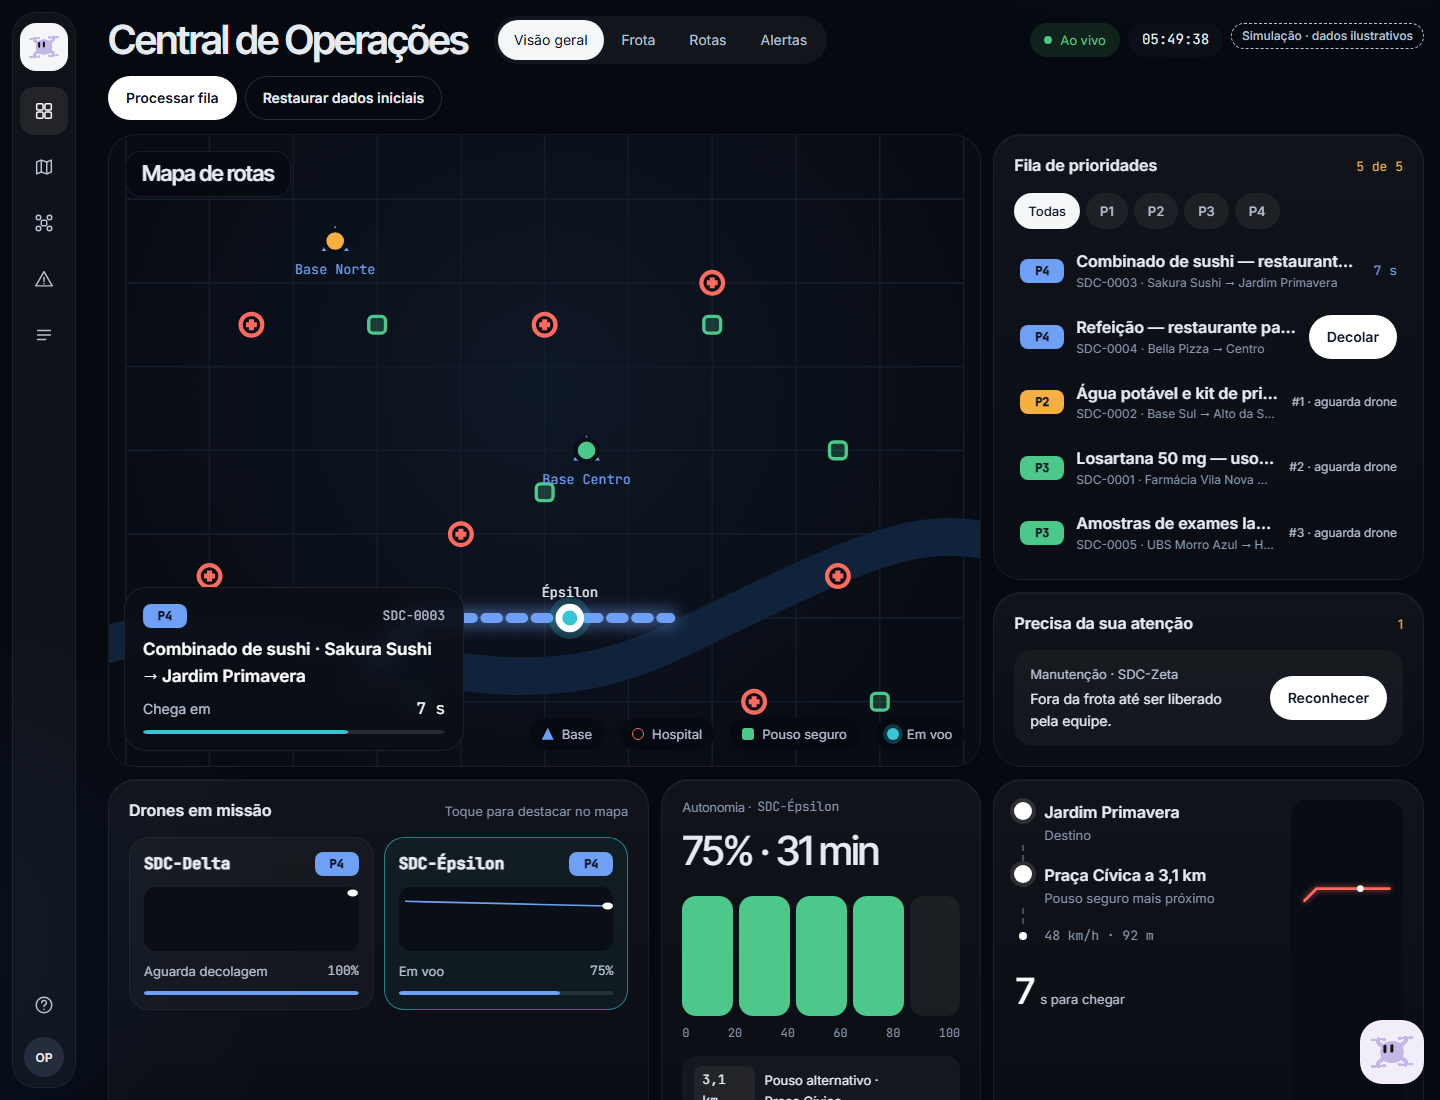
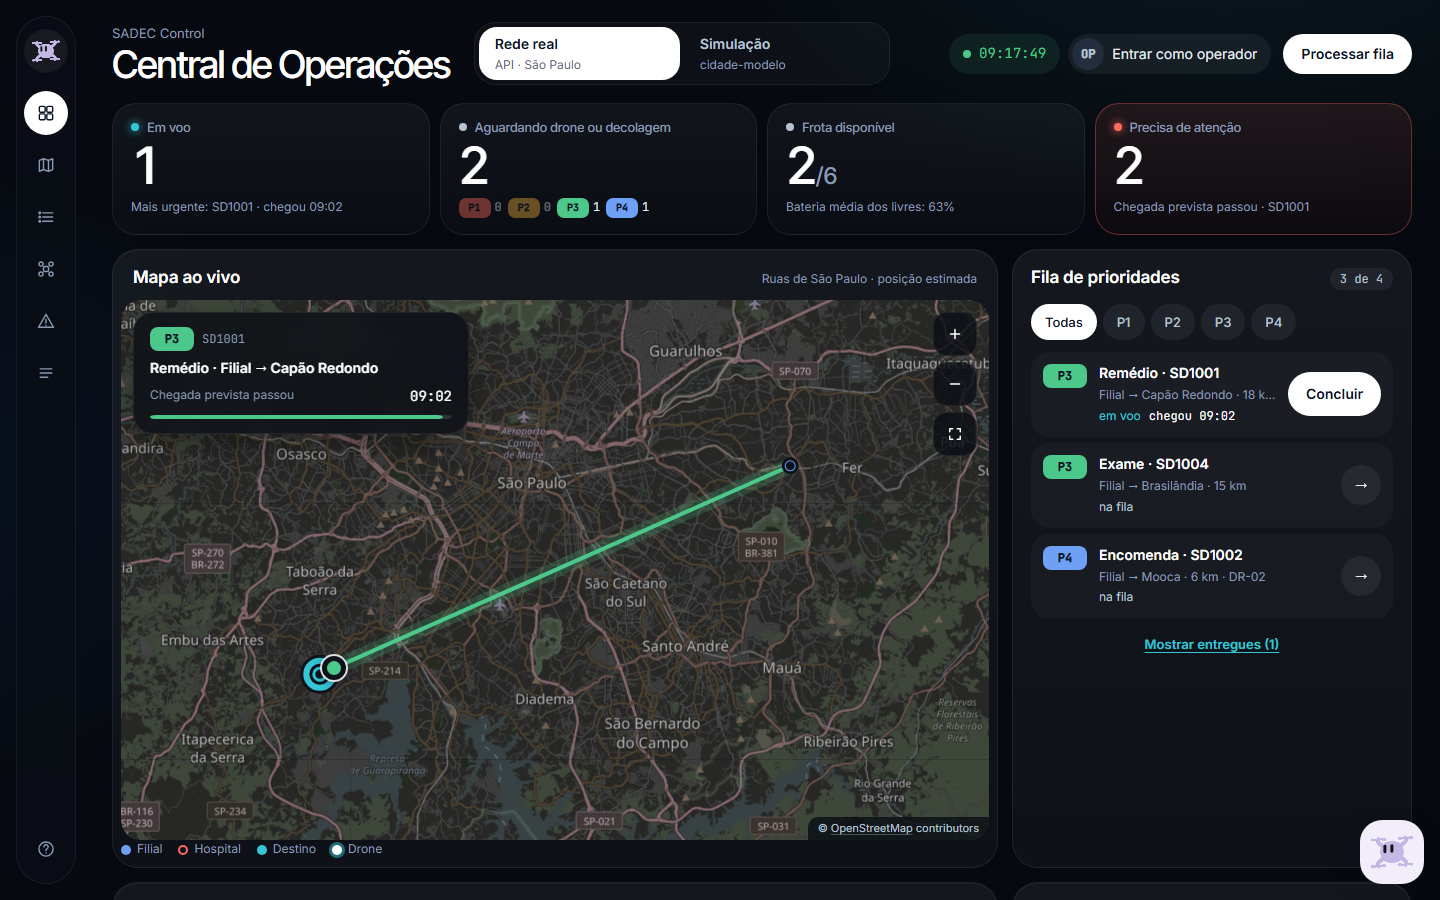
docs: Central nova, Delivery ao vivo, bateria em tempo real e /api/eventos

diff --git a/README.md b/README.md
@@ -25,11 +25,11 @@ Oferecer um meio **complementar** de transporte para cargas críticas, com regra
 | `index.html` | Apresentação, fila da Central ao vivo, etapas de uma missão (abas), prioridades, linha do dia da frota, simulador de subsídio, segurança, impacto e ODS |
 | `como-funciona.html` | Os seis passos de uma missão ilustrativa (P3) e as respostas para exceções |
 | `sobre.html` | Descrição, problema, objetivo, proposta de valor, público, regulação (ANAC/DECEA, LGPD) e integração com as disciplinas |
-| `central.html` | Central de Operações: mapa da frota com drones em movimento, fila por prioridade, frota, nova solicitação, cenários de teste e registro operacional |
+| `central.html` | Central de Operações: alterna entre **rede real** (pedidos da API no mapa de ruas de São Paulo) e **simulação** (cidade-modelo). Indicadores, mapa ao vivo com o voo mais urgente, fila com decolar/concluir, frota com bateria, alertas, registro, códigos de órgão, nova solicitação e cenários de teste |
 | `rastreamento.html` | Mapa esquemático, etapas, telemetria simulada, demonstrações de pane e **registro de recebimento** |
 | `orgaos.html` | Missão P1 demonstrativa: janela de preservação, corredor exclusivo, temperatura, reserva de bateria e cadeia de custódia |
 | `saude/index.html` | **SADEC Saúde**: pedidos por perfil (cidadão P3, hospital P1 com pré-checagem de autonomia, operador P2), rastreamento médico, simuladores e tutorial |
-| `delivery/index.html` | **SADEC Delivery**: restaurantes fictícios, sacola, comparação drone × entrega convencional, pedido P4 na mesma Central e acompanhamento do voo |
+| `delivery/index.html` | **SADEC Delivery**: restaurantes fictícios, sacola, comparação drone × entrega convencional, pedido P4 na mesma Central e acompanhamento do voo no mapa de ruas reais, com atalho fixo para o pedido |
 | `drone-bot.html` | Conversa com o Drone Bot e atalhos para as cinco intenções |
 | `faq.html` | **Ajuda**: perguntas frequentes por assunto (abas + accordion) e formulário de contato validado em JavaScript, com mensagens de erro e de sucesso |
 | `integrantes.html` | Nome, RM, turma, foto, GitHub e LinkedIn dos integrantes |
@@ -39,6 +39,7 @@ Oferecer um meio **complementar** de transporte para cargas críticas, com regra
 1. Fila ordenada por prioridade: **P1 → P2 → P3 → P4**; empate pela ordem de chegada.
 2. P1 e P2 podem antecipar uma entrega comercial **antes da decolagem**; entrega **em voo** nunca é realocada.
 3. Órgão só decola se `consumo da rota × 1,3 ≤ bateria` (reserva de 30%). Demais cargas: 15% (ilustrativo).
+   Voo em tempo real: cruzeiro de 48 km/h (1 km a cada 75 s) e consumo de cerca de 3% por km, ou seja, uns 2,4% por minuto; drone parado na base recarrega cerca de 3% por minuto.
 4. A Central escolhe o drone **disponível** mais próximo da filial adequada, com carga e autonomia suficientes; se não houver, indica **transporte alternativo**.
 5. Pane de motor ou bateria: pouso na **zona segura mais próxima da rota**. Falha grave: paraquedas, luzes e alerta sonoro. A ocorrência é registrada e o drone segue para **resgate e manutenção**; só volta à frota depois de liberado.
 6. Temperatura fora de 2–8 °C: alerta à equipe médica.
@@ -154,11 +155,11 @@ Nenhuma chave fica no código, no fluxo ou no banco. A API escuta só em `127.0.
 ### Contas (uma conta para o portal, o SADEC Saúde e o SADEC Delivery)
 - Cadastro e login em `entrar.html`, gravados no SQLite pela API. Senha guardada só como hash **scrypt** com sal; o login gera um token aleatório e o banco guarda apenas o hash SHA-256 dele. "Manter conectado" vale 30 dias (sem ele, 12 horas e só até fechar o navegador).
 - Perfis: **cliente** (Delivery e remédios), **unidade de saúde** (escolhe o hospital da rede no cadastro) e **operador** (criado só pela Central, não pelo cadastro público).
-- O cabeçalho do portal, o Saúde e o Delivery mostram a conta conectada. No Delivery, com a API ligada e conta de cliente, o pedido também é gravado na Central (P4) e pode ser seguido no mapa real.
+- O cabeçalho do portal, o Saúde e o Delivery mostram a conta conectada. No Delivery, com a API ligada e conta de cliente, o pedido também é gravado na Central (P4) e acompanhado ali mesmo no mapa de ruas reais: a loja libera a decolagem quando o preparo termina e o cliente confirma o recebimento depois da chegada prevista (só no próprio pedido comercial; a Central pode fazer as duas ações em qualquer pedido).
 - O código de 6 dígitos, o Face ID e "Esqueci a senha" continuam **simulados** (nenhum SMS ou e-mail é enviado).
 - Contas de demonstração (fictícias, criadas pela migração 002), todas com a senha `sadec2026`: `operador@sadec.demo`, `hospital@sadec.demo` (Hospital das Clínicas) e `cliente@sadec.demo`.
 
-Transporte de órgão: o operador entra na Central, emite o código para o hospital (painel "Central integrada") e o informa ao hospital; a equipe entra com a conta da unidade de saúde e digita o código no pedido de órgão do SADEC Saúde. O código é consumido na mesma transação que grava o pedido.
+Transporte de órgão: o operador entra na Central, emite o código para o hospital (painel "Códigos de órgão", no modo rede real) e o informa ao hospital; a equipe entra com a conta da unidade de saúde e digita o código no pedido de órgão do SADEC Saúde. O código é consumido na mesma transação que grava o pedido.
 
 ### Endpoints
 | Método | Rota | O que faz |
@@ -174,6 +175,7 @@ Transporte de órgão: o operador entra na Central, emite o código para o hospi
 | POST | `/api/fila/processar` | Ordena a fila pela Java e despacha os pendentes |
 | GET | `/api/drones` · `/api/locais` | Frota; locais com latitude e longitude (181 unidades do CNES listadas no `sadec.py`, bairros e filiais) |
 | POST | `/api/drones/:codigo/recuperacao` | `concluir_resgate`, `concluir_manutencao` ou `liberar` |
+| GET | `/api/eventos` | Histórico recente de pedidos e drones (registro da Central) |
 | GET/POST | `/sadec` · `/sadec/mensagem` | Webchat original e mensagens do chatbot |
 | GET | `/sadec/widget.js` · `/sadec/widget.css` | Widget incorporável (`<script src="http://localhost:1880/sadec/widget.js">`) |
 
@@ -192,7 +194,7 @@ POST /api/pedidos
 ### Testes
 | Comando | O que cobre |
 |---|---|
-| `npm test` | 44 testes do site + 12 testes de integração: contas, sessões, códigos de órgão, P1/P2, rotas com coordenadas (pulados se Python/Java não estiverem configurados) |
+| `npm test` | 44 testes do site + 13 testes de integração: contas, sessões, códigos de órgão, P1/P2, rotas com coordenadas, decolagem e recebimento pelo dono do pedido (pulados se Python/Java não estiverem configurados) |
 | `python Python/test_sadec_integracao.py` | 13 testes: distância, bateria, reserva de 30%, limite exato, entrada inválida, CLI |
 | `java -cp Java/SADEC/out br.com.fiap.sadec.integracao.IntegracaoTeste` | 19 testes: fila P1–P4, empate, preempção, comercial em voo, bateria, pane, resgate, manutenção, liberação |
 
@@ -206,7 +208,7 @@ POST /api/pedidos
 | ![Início](docs/capturas/inicio.png) | ![Chatbot](docs/capturas/chatbot.png) | ![Saúde no celular](docs/capturas/saude-celular.png) |
 
 ### Limitações e o que é simulado
-- No rastreamento de um pedido da Central (código `SD`), o mapa usa ruas reais do **OpenStreetMap** (precisa de internet; atribuição "© OpenStreetMap contributors" no mapa) e as coordenadas gravadas no banco. Não há drone real: a posição em voo é **estimada** pelo horário da decolagem e pela distância, e a telemetria (temperatura, vibração) só existe no modo simulado. Os códigos `SDC-` continuam na cidade-modelo fictícia.
+- No rastreamento de um pedido da Central (código `SD`), o mapa usa ruas reais do **OpenStreetMap** (precisa de internet; atribuição "© OpenStreetMap contributors" no mapa) e as coordenadas gravadas no banco. Não há drone real: a posição e a bateria em voo são **estimadas** pelo horário da decolagem, pela distância e pela autonomia do drone (cruzeiro de 48 km/h), e a telemetria (temperatura, vibração) só existe no modo simulado. Os códigos `SDC-` continuam na cidade-modelo fictícia.
 - Nomes e endereços de hospitais vêm do CNES (dados públicos) e servem só para localização no mapa. Drones, pedidos, contas de demonstração e lojas são **fictícios**. Não há parceria com hospitais, órgãos públicos ou plataformas de delivery.
 - As contas são de demonstração acadêmica (banco local, sem recuperação de senha nem verificação de e-mail). O Delivery calcula preço e anima o voo na simulação; com conta conectada, o pedido também é gravado na Central.
 - O chatbot usa a **Groq** (Whisper e LLM) quando há chave configurada. **Não** implementa IBM watsonx Assistant; a conformidade com esse requisito depende de validação com o professor.
